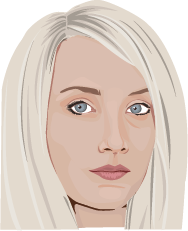
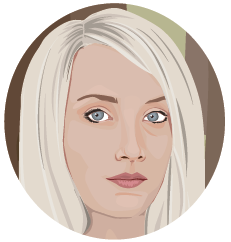
Fixed UI on Profile, added face changes to Chat

diff --git a/Assets/ScrollScript.cs b/Assets/ScrollScript.cs
@@ -19,6 +19,13 @@ public class ScrollScript : MonoBehaviour
     public GameObject alisonScrollItemPrefab3;
     public GameObject playerScrollItemPrefab3;
 
+    public GameObject alisonImage;
+
+    public Sprite neutral;
+    public Sprite shocked;
+    public Sprite curious;
+    public Sprite disappointed;
+
     public Button buttonOption1;
     public Button buttonOption2;
 
@@ -27,25 +34,25 @@ public class ScrollScript : MonoBehaviour
     GameObject scrollItemObj;
 
     private DialogueOption[] dialogueOptions = {
-        new DialogueOption(0, "", "", "", 1, 2),
-        new DialogueOption(1, "Curious Opening", "Hello, Alison. I found your profile intriguing... If a little... Mysterious.", "Hi! Thanks for messaging me. Yeah, I guess it is mysterious. Does that bother you?", 3, 4),
-        new DialogueOption(2, "Normal Opening", "Hey Alison, how are you?", "Hey there, I'm good. How are you?", 5, 6),
-        new DialogueOption(3, "Not Bothered", "No, not at all. A little mystery never hurt anyone.", "Well I'm glad to hear that, because I'm really not an open book.", 7, 8),
-        new DialogueOption(4, "Bothered", "Yeah, actually, it kinda does. It makes it hard to know what to talk to you about.", "Hmm. I see. Well, you could always ask me.", 9, 10),
-        new DialogueOption(5, "Lie", "Yeah, I'm great. What did you get up to today?", "Not much, to be honest. What about you?", 11, 12),
-        new DialogueOption(6, "Truth", "I'm okay, but... Actually... I've had a bad day. My boss just blamed me for something that wasn't my fault.", "Oh, no. That sucks. I'm sorry that happened.", 13, 14),
-        new DialogueOption(7, "Reassure", "That's ok. I find reading boring anyway.", "Me too. I always prefer to wait for the movie to come out.", 0, 0),
-        new DialogueOption(8, "Challenge", "", "", 0, 0),
-        new DialogueOption(9, "", "", "", 0, 0),
-        new DialogueOption(10, "", "", "", 0, 0),
-        new DialogueOption(11, "Question", "Not much?", "Yup. That's what I said.", 0, 0),
-        new DialogueOption(12, "Answer", "Just work... It was boring.", "I hope your day gets less boring now that you're talking to me.", 0, 0),
-        new DialogueOption(13, "", "", "", 0, 0),
-        new DialogueOption(14, "", "", "", 0, 0),
-        new DialogueOption(15, "", "", "", 0, 0),
-        new DialogueOption(16, "", "", "", 0, 0),
-        new DialogueOption(17, "", "", "", 0, 0),
-        new DialogueOption(18, "", "", "", 0, 0),
+        new DialogueOption(0, "", "", "", 1, 2, "neutral"),
+        new DialogueOption(1, "Curious Opening", "Hello, Alison. I found your profile intriguing... If a little... Mysterious.", "Hi! Thanks for messaging me. Yeah, I guess it is mysterious. Does that bother you?", 3, 4, "shocked"),
+        new DialogueOption(2, "Normal Opening", "Hey Alison, how are you?", "Hey there, I'm good. How are you?", 5, 6, "neutral"),
+        new DialogueOption(3, "Not Bothered", "No, not at all. A little mystery never hurt anyone.", "Well I'm glad to hear that, because I'm really not an open book.", 7, 8, "neutral"),
+        new DialogueOption(4, "Bothered", "Yeah, actually, it kinda does. It makes it hard to know what to talk to you about.", "Hmm. I see. Well, you could always ask me.", 9, 10, "curious"),
+        new DialogueOption(5, "Lie", "Yeah, I'm great. What did you get up to today?", "Not much, to be honest. What about you?", 11, 12, "neutral"),
+        new DialogueOption(6, "Truth", "I'm okay, but... Actually... I've had a bad day. My boss just blamed me for something that wasn't my fault.", "Oh, no. That sucks. I'm sorry that happened.", 13, 14, "disappointed"),
+        new DialogueOption(7, "Reassure", "That's ok. I find reading boring anyway.", "Me too. I always prefer to wait for the movie to come out.", 0, 0, "neutral"),
+        new DialogueOption(8, "Challenge", "", "", 0, 0, "neutral"),
+        new DialogueOption(9, "", "", "", 0, 0, "neutral"),
+        new DialogueOption(10, "", "", "", 0, 0, "neutral"),
+        new DialogueOption(11, "Question", "Not much?", "Yup. That's what I said.", 0, 0, "disappointed"),
+        new DialogueOption(12, "Answer", "Just work... It was boring.", "I hope your day gets less boring now that you're talking to me.", 0, 0, "neutral"),
+        new DialogueOption(13, "", "", "", 0, 0, "neutral"),
+        new DialogueOption(14, "", "", "", 0, 0, "neutral"),
+        new DialogueOption(15, "", "", "", 0, 0, "neutral"),
+        new DialogueOption(16, "", "", "", 0, 0, "neutral"),
+        new DialogueOption(17, "", "", "", 0, 0, "neutral"),
+        new DialogueOption(18, "", "", "", 0, 0, "neutral"),
     };
 
     private int current_index = 0;
@@ -75,6 +82,27 @@ public class ScrollScript : MonoBehaviour
         int lineLength = 48;
 
         DialogueOption chosenDialogue = dialogueOptions[option];
+
+        string mood = chosenDialogue.get_mood();
+
+        switch(mood)
+        {
+            case "neutral":
+                alisonImage.GetComponent<Image>().sprite = neutral;
+                break;
+            case "shocked":
+                alisonImage.GetComponent<Image>().sprite = shocked;
+                break;
+            case "curious":
+                alisonImage.GetComponent<Image>().sprite = curious;
+                break;
+            case "disappointed":
+                alisonImage.GetComponent<Image>().sprite = disappointed;
+                break;
+            default:
+                alisonImage.GetComponent<Image>().sprite = neutral;
+                break;
+        }
 
         int playerLength = chosenDialogue.get_player_dialogue().Length;
         int alisonLength = chosenDialogue.get_alison_dialogue().Length;

diff --git a/Assets/DialogueOption.cs b/Assets/DialogueOption.cs
@@ -7,8 +7,9 @@ public class DialogueOption
     private string alison_dialogue;
     private int option1_id;
     private int option2_id;
+    private string mood;
 
-    public DialogueOption(int id, string button_text, string player_dialogue, string alison_dialogue, int option1, int option2)
+    public DialogueOption(int id, string button_text, string player_dialogue, string alison_dialogue, int option1, int option2, string mood)
     {
         this.id = id;
         this.button_text = button_text;
@@ -16,6 +17,7 @@ public class DialogueOption
         this.alison_dialogue = alison_dialogue;
         this.option1_id = option1;
         this.option2_id = option2;
+        this.mood = mood;
     }
 
     public int get_id()
@@ -47,4 +49,10 @@ public class DialogueOption
     {
         return this.option2_id;
     }
+
+    public string get_mood()
+    {
+        return this.mood;
+    }
+
 }
